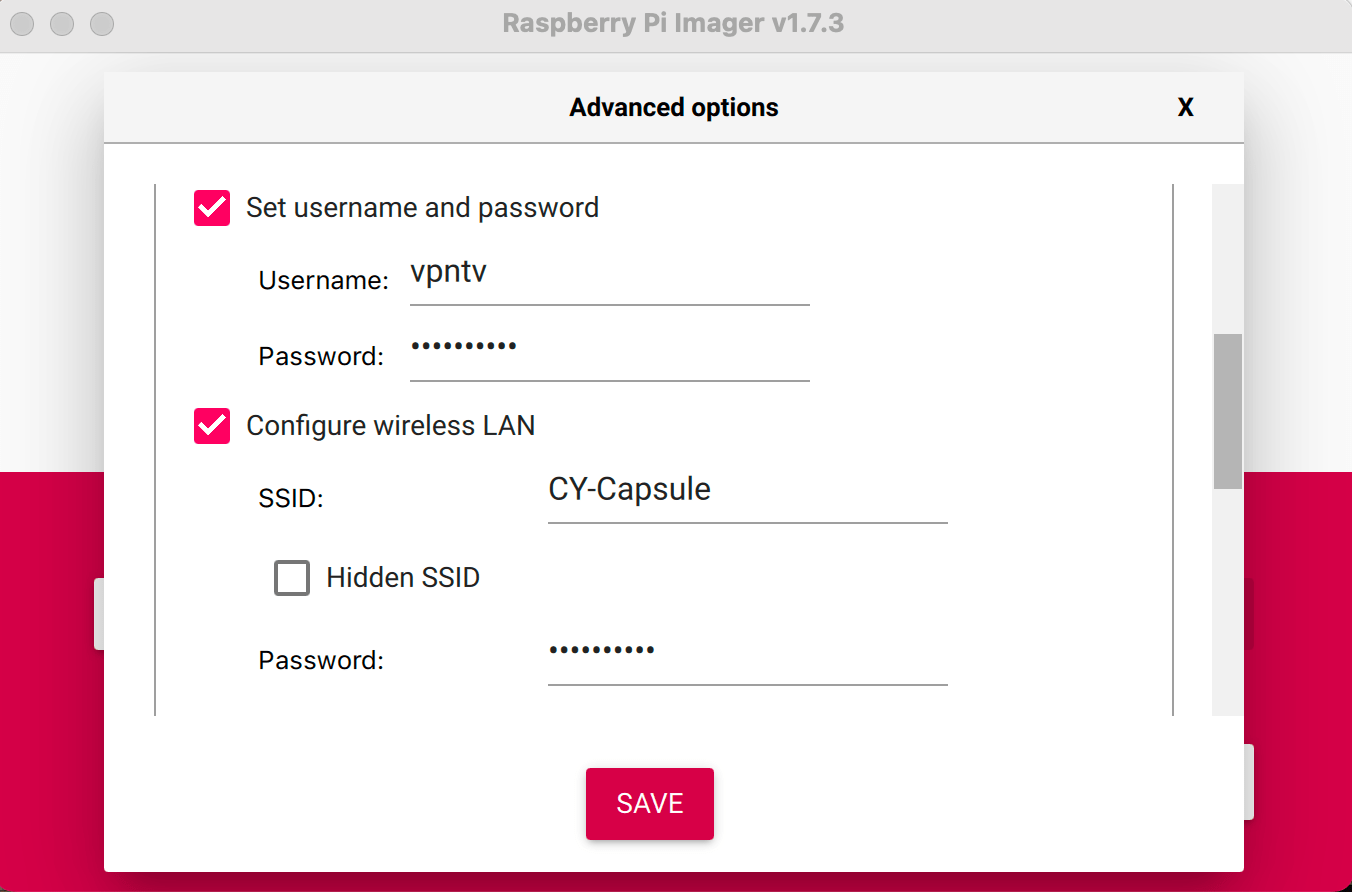
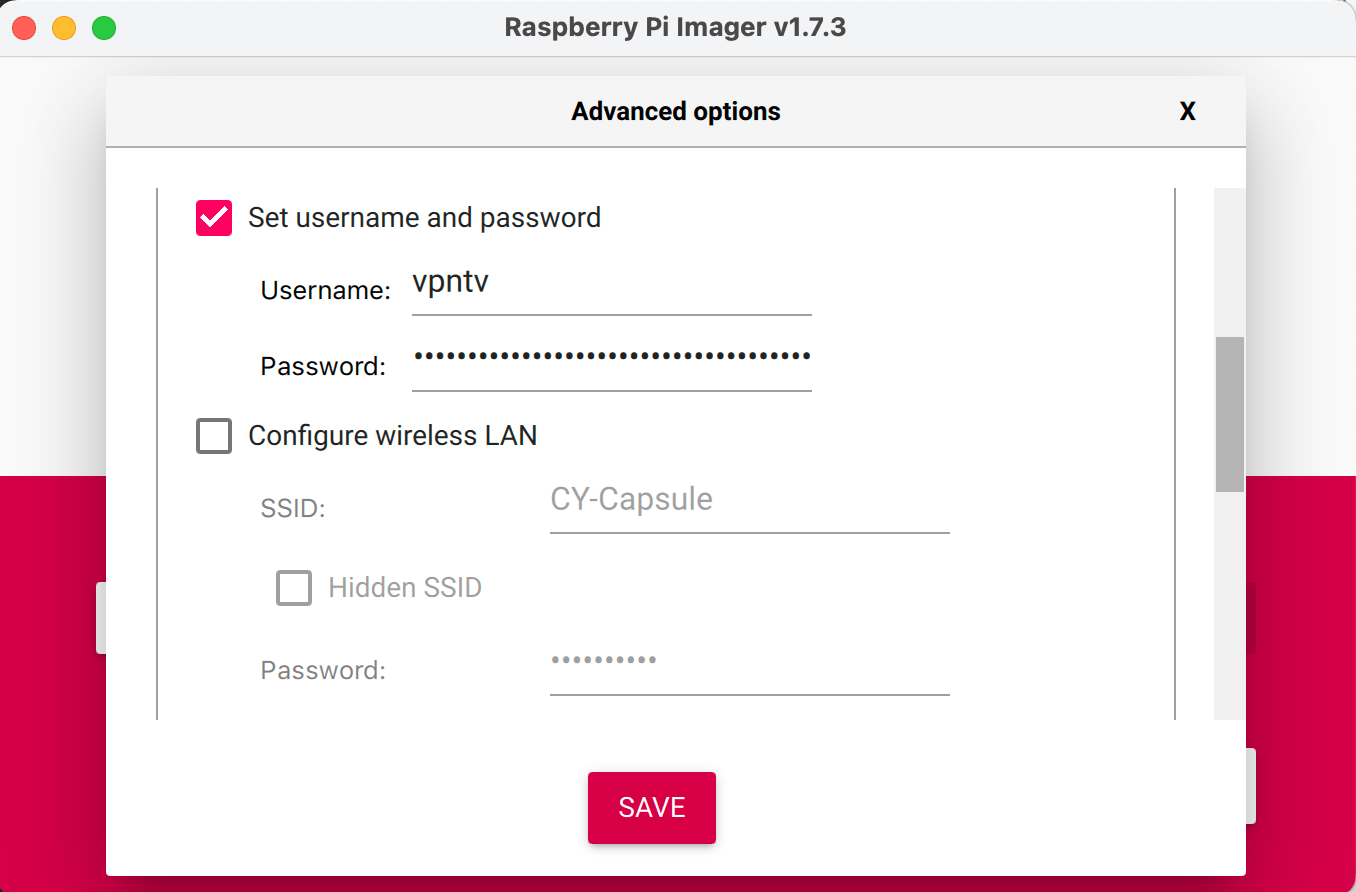
README update

diff --git a/README.md b/README.md
@@ -1,9 +1,34 @@
 # VPNTV Hardware Requirements Guide
 VPNTV supports different kinds of wifi and ethernet bridging options for variety Raspberry Pi boards and hats. All of them are described below.
 
+## Ethernet to WiFi bridge
+**Prefferable setup**. Connecting TV to VPNTV's new WiFi network while VPNTV connected to your home router by Ethernet cable.
+<img src="https://github.com/d3vilh/vpntv/raw/main/images/vpntv-wireless.png" alt="wireless connection type1" width="350" border="1" /> 
+
+#### Hardware requirements:
+- [**Raspberry Pi Zero W**](https://www.raspberrypi.org/products/raspberry-pi-zero-w/) or [**Raspberry Pi Zero W2**](https://www.raspberrypi.org/products/raspberry-pi-zero-w-2/) board, all with 512Mb RAM minimum.
+- Or [**Raspberry Pi 4**](https://www.raspberrypi.com/products/raspberry-pi-4-model-b/), [**Raspberry Pi CM4**](https://www.raspberrypi.com/products/compute-module-4/?variant=raspberry-pi-cm4001000) **and** [**CM4 I/O Board**](https://www.raspberrypi.com/products/compute-module-4-io-board/) or [**Raspberry Pi 3**](https://www.raspberrypi.com/products/raspberry-pi-3-model-b-plus/) board, all with 1Gb RAM minimum.
+- **8Gb SD Card**
+  > You can run vpntv on CM4 board with 4Gb eMMC EEPROM chip as well.
+
+- **USB Ethernet Hat** (for Raspberry Pi Zero W boards only)
+
+   <details>
+     <summary>
+       Supported (and tested) Raspberry Pi Zero W USB and Ethernet hats.
+     </summary>
+  
+  * [WaveShare ETH/USB HUB](https://www.waveshare.com/product/raspberry-pi/hats/interface-power/eth-usb-hub-hat-b.htm) HAT for RPi Zero. [Aliexpress link](https://a.aliexpress.com/_EJGKaqH)
+  * [Elecrow USB Hub & PowerManager](https://www.elecrow.com/usb-hub-powermanager-for-rpi-zero-v1-0.html) for RPi Zero V1.0. [Aliexpress link](https://a.aliexpress.com/_Exj5Rvf)
+</details>
+
+- [**Raspios Lite (64-bit)**](https://downloads.raspberrypi.org/raspios_lite_arm64/images/) or [**Raspios Lite (32-bit)**](https://downloads.raspberrypi.org/raspios_lite_armhf/images/) for setup on Raspberry Pi Zero W (ver.1) boards.
+For the installation guide refer to [**Raspberry Pi Image configurtion for Ethernet 2 WiFi**](https://github.com/d3vilh/vpntv-hardware/tree/main/imager-configuration/README-eth2wifi.md) document.
+
 ## WiFi to WiFi bridge. 
+**Full Wireless solution**, no wires allowed :)
 Connecting TV to VPNTV's new WiFi network while VPNTV itself connected to your home WiFi network.
-<img src="https://github.com/d3vilh/vpntv/raw/main/images/vpntv-wireless.png" alt="wireless connection type 1" width="350" border="1" /> 
+<img src="https://github.com/d3vilh/vpntv/raw/main/images/vpntv-wireless2.png" alt="wireless connection type 2" width="350" border="1" /> 
 
 #### Hardware requirements:
 - [**Raspberry Pi Zero W**](https://www.raspberrypi.org/products/raspberry-pi-zero-w/) or [**Raspberry Pi Zero W2**](https://www.raspberrypi.org/products/raspberry-pi-zero-w-2/) board, all with 512Mb RAM minimum.
@@ -49,30 +74,6 @@ Connecting TV to VPNTV's new WiFi network while VPNTV itself connected to your h
 
 - [**Raspios Lite (64-bit)**](https://downloads.raspberrypi.org/raspios_lite_arm64/images/) or [**Raspios Lite (32-bit)**](https://downloads.raspberrypi.org/raspios_lite_armhf/images/) for setup on Raspberry Pi Zero W (ver.1) boards.
 For the installation guide refer to [**Raspberry Pi Image configurtion**](https://github.com/d3vilh/vpntv-hardware/tree/main/imager-configuration) document.
-
-## Ethernet to WiFi bridge
-Connecting TV to VPNTV's new WiFi network while VPNTV connected to your home router by Ethernet cable.
-<img src="https://github.com/d3vilh/vpntv/raw/main/images/vpntv-wireless2.png" alt="wireless connection type2" width="350" border="1" /> 
-
-#### Hardware requirements:
-- [**Raspberry Pi Zero W**](https://www.raspberrypi.org/products/raspberry-pi-zero-w/) or [**Raspberry Pi Zero W2**](https://www.raspberrypi.org/products/raspberry-pi-zero-w-2/) board, all with 512Mb RAM minimum.
-- Or [**Raspberry Pi 4**](https://www.raspberrypi.com/products/raspberry-pi-4-model-b/), [**Raspberry Pi CM4**](https://www.raspberrypi.com/products/compute-module-4/?variant=raspberry-pi-cm4001000) **and** [**CM4 I/O Board**](https://www.raspberrypi.com/products/compute-module-4-io-board/) or [**Raspberry Pi 3**](https://www.raspberrypi.com/products/raspberry-pi-3-model-b-plus/) board, all with 1Gb RAM minimum.
-- **8Gb SD Card**
-  > You can run vpntv on CM4 board with 4Gb eMMC EEPROM chip as well.
-
-- **USB Ethernet Hat** (for Raspberry Pi Zero W boards only)
-
-   <details>
-     <summary>
-       Supported (and tested) Raspberry Pi Zero W USB and Ethernet hats.
-     </summary>
-  
-  * [WaveShare ETH/USB HUB](https://www.waveshare.com/product/raspberry-pi/hats/interface-power/eth-usb-hub-hat-b.htm) HAT for RPi Zero. [Aliexpress link](https://a.aliexpress.com/_EJGKaqH)
-  * [Elecrow USB Hub & PowerManager](https://www.elecrow.com/usb-hub-powermanager-for-rpi-zero-v1-0.html) for RPi Zero V1.0. [Aliexpress link](https://a.aliexpress.com/_Exj5Rvf)
-</details>
-
-- [**Raspios Lite (64-bit)**](https://downloads.raspberrypi.org/raspios_lite_arm64/images/) or [**Raspios Lite (32-bit)**](https://downloads.raspberrypi.org/raspios_lite_armhf/images/) for setup on Raspberry Pi Zero W (ver.1) boards.
-For the installation guide refer to [**Raspberry Pi Image configurtion for Ethernet 2 WiFi**](https://github.com/d3vilh/vpntv-hardware/tree/main/imager-configuration/README-eth2wifi.md) document.
 
 ## WiFi to Ethernet bridge
 Connecting TV over Ethernet to VPNTV's Ethernet port, while VPNTV itself connected to your home WiFi network.

diff --git a/imager-configuration/README.md b/imager-configuration/README.md
@@ -27,10 +27,10 @@ Step-by-step instructions for configuring Raspberry Pi Image for use with the [V
    1. Set the hostname of your Raspberry Pi. For example, `vpntv`:
     <img src="https://github.com/d3vilh/vpntv-hardware/raw/main/Images/Imager-config.1.png" alt="Step3.0" width="600" border="1" /> 
 
-   2. Set the uniq password for the `vpntv` user. For example, `Uniqu3_pa$Sword!:)` and set the SSID of your local WiFi network which you are using for Internet conncetion:
-      > **Note for Ethernet to WiFi**: If you are using **Wireless Connection Type 2** option - do not configure WiFi SSID and go straight to the next step. 
+   2. Set the uniq password for the `vpntv` user. For example, `Uniqu3_pa$Sword!:|` do not configure WiFi SSID and go straight to the next step:
+      > **Note**: **WiFi to WiFi** If you are using **Wireless Connection Type 2** - set the SSID of your local WiFi network which you are using for Internet conncetion. 
 
-    <img src="https://github.com/d3vilh/vpntv-hardware/raw/main/Images/Imager-config.2.png" alt="Step3.1" width="600" border="1" />
+      <img src="https://github.com/d3vilh/vpntv-hardware/raw/main/Images/Imager-config.2.png" alt="Step3.1" width="600" border="1" />
 
    3. Set desired TimeZone and Keyboard layout:  
     <img src="https://github.com/d3vilh/vpntv-hardware/raw/main/Images/Imager-config.3.png" alt="Step3.2" width="600" border="1" />
@@ -40,7 +40,8 @@ Step-by-step instructions for configuring Raspberry Pi Image for use with the [V
 
 7. When verification process will be completed you will be prompted to remove the SD card from your computer and insert it into your Raspberry Pi. 
 
-8. Plug your Raspberry Pi to the power supply and Ethernet port of your router (in case of **Wireless Connection Type 2** option) then wait for the first boot, it can take up to the 5 minutes, depends on board you are using.
+8. Plug your Raspberry Pi to the power supply and Ethernet port of your router then wait for the first boot, it can take up to the 5 minutes, depends on Raspberry board you are using.
+   > **Note**: If you are using **Wireless Connection Type 2**, full wireless connection, you don't need to connect Ethernet port to router. 
 
 9. Connect to your Raspberry Pi with ssh client, using the user `vpntv` and password you setup on the point 5.1:
    ```bash
